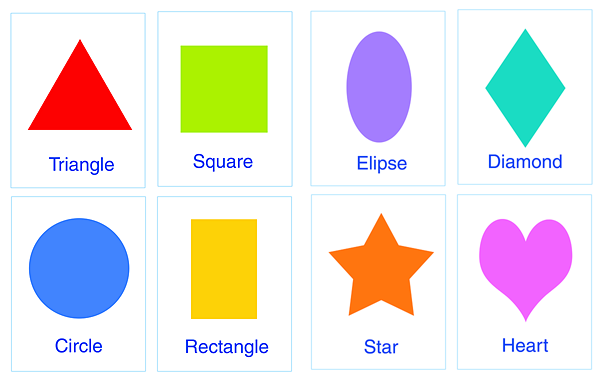
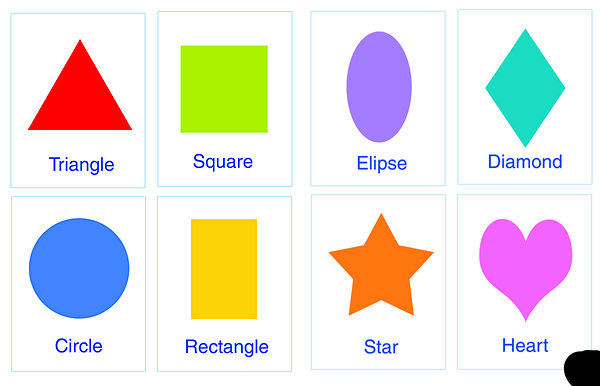
sistemato il metodo per riconoscere il colore

Changed region(s): [[0.93, 0.9016, 1.0, 1.0]]

diff --git a/BaseClass/src/FeatureExtractor.cpp b/BaseClass/src/FeatureExtractor.cpp
@@ -38,56 +38,94 @@ string FeatureExtractor::getPointColor(int x, int y){
 	//cv::Mat colorBlob = hueLevel(roi);
 	//printf("%.2f\n",normColor(colorBlob.data[colorBlob.step*2+2]));
 
-	double hue = this->normColor(hueLevel.data[hueLevel.step*y+x]);
+	double hue = this->normHue(hueLevel.data[hueLevel.step*y+x]);
+	double sat = this->normSV(hslChannels[1].data[hslChannels[1].step*y+x]);
+	double val = this->normSV(hslChannels[2].data[hslChannels[2].step*y+x]);
+
 	printf("%.2f\n",hue);
-	return this->getColorString(hue);
+	printf("%.2f\n",sat);
+	printf("%.2f\n",val);
+	return this->getColorString(hue,sat,val);
 }
 
 
-string FeatureExtractor::getRegionColor(int x, int y){
-	/*
-	 *  @TODO: pensare a come capire cosa è interno alla regione e cosa è esterno
-	 // Convert image to HSV.
-	cv::Mat hsv;
-	cv::cvtColor(image, hsv, CV_BGR2HSV);
+string FeatureExtractor::getRegionColor(cv::vector<cv::Point> points){
+	//imposto il roi nella bounding box della forma
+	cv::Rect boundingBox = boundingRect(cv::Mat(points));
+	cv::Mat boundedImg = image(boundingBox);
 
-	cv::Mat hslChannels[3];
-	cv::split(hsv, hslChannels);
+	//converto l'immagine in immagine binaria.
+	cv::Mat binary,gray;
+	cv::cvtColor(boundedImg, gray, CV_BGR2GRAY);
+	int thresholdValue = 128;
+	cv::threshold(gray, binary, thresholdValue, 255, CV_THRESH_BINARY);
+	//cv::imshow( "bin", binary );
+	//cv::waitKey(0);
 
-	cv::Mat hueLevel = hslChannels[0];
+	//converto la boundedImg in HSV
+	cv::Mat hsvRegion;
+	cv::cvtColor(boundedImg, hsvRegion, CV_BGR2HSV);
+	cv::Mat hsvChannels[3];
+	cv::split(hsvRegion, hsvChannels);
 
-	//cv::Rect roi(x-3,y-3,5,5);
-	//cv::Mat colorBlob = hueLevel(roi);
-	//printf("%.2f\n",normColor(colorBlob.data[colorBlob.step*2+2]));
+	//Uso l'immagine binaria come flag. L'oggetto è nero.
+	//Faccio la media dei valori di saturazione dei pixel
+	double totalPixel = 0;
+	double regionH = 0;
+	double regionS = 0;
+	double regionV = 0;
 
-	double hue = this->normColor(hueLevel.data[hueLevel.step*y+x]);
-	printf("%.2f\n",hue);
-	return this->getColorString(hue);
-	*/
+	for (int i=0;i<binary.rows;i++)
+		for (int j=0;j<binary.cols;j++)
+			if(binary.data[binary.step*i+j] < 10) {
+				totalPixel += 1;
+				regionH += hsvChannels[0].data[hsvChannels[0].step*i+j];
+				regionS += hsvChannels[1].data[hsvChannels[1].step*i+j];
+				regionV += hsvChannels[2].data[hsvChannels[2].step*i+j];
+			}
+	regionH /= totalPixel;
+	regionS /= totalPixel;
+	regionV /= totalPixel;
+
+	double hue = this->normHue(regionH);
+	double sat = this->normSV(regionS);
+	double val = this->normSV(regionV);
+
+	printf("%.2f\n",regionH);
+	return this->getColorString(hue,sat,val);
 }
 
 
-double FeatureExtractor::normColor(int hueVal){
+double FeatureExtractor::normHue(int hueVal){
 	return ((double)hueVal*360.0/180.0);
 }
 
+double FeatureExtractor::normSV(int svVal){
+	return ((double)svVal*100.0/255.0);
+}
 
-string FeatureExtractor::getColorString(double gimpHueValue){
-	if((gimpHueValue < 15.0) || ((gimpHueValue > 330.0) && (gimpHueValue < 360.0)))
+string FeatureExtractor::getColorString(double gimpHue, double gimpSaturation, double gimpValue){
+	if ((gimpValue >= 0) && (gimpValue <= 30))
+		return "black";
+	else if (((gimpValue >= 95) && (gimpValue <= 100)) && ((gimpSaturation>=0) && (gimpSaturation<=5)))
+		return "white";
+	else if (((gimpValue >= 30) && (gimpValue <= 60)) && ((gimpSaturation>=5) && (gimpSaturation<=15)))
+		return "gray";
+	else if ((gimpHue < 15.0) || ((gimpHue > 330.0) && (gimpHue < 360.0)))
 		return "red";
-	else if(gimpHueValue < 45.0)
+	else if(gimpHue < 45.0)
 		return "orange";
-	else if(gimpHueValue < 65.0)
+	else if(gimpHue < 65.0)
 		return "yellow";
-	else if(gimpHueValue < 140.0)
+	else if(gimpHue < 140.0)
 		return "green";
-	else if(gimpHueValue < 210.0)
+	else if(gimpHue < 210.0)
 		return "cyan";
-	else if(gimpHueValue < 250.0)
+	else if(gimpHue < 250.0)
 		return "blue";
-	else if(gimpHueValue < 280.0)
+	else if(gimpHue < 280.0)
 		return "violet";
-	else if(gimpHueValue < 330.0)
+	else if(gimpHue < 330.0)
 		return "pink";
 	else return "unknown";
 }
@@ -364,12 +402,20 @@ void FeatureExtractor::recognizeTriangles(){
 void FeatureExtractor::getExtractedFeature(){
 	//this->recognizeCircles();
 
+
 	cout<<"color: "+this->getPointColor(100, 100)+"\n";   //rosso
 	cout<<"color: "+this->getPointColor(200, 100)+"\n";		//verde
 	cout<<"color: "+this->getPointColor(100, 250)+"\n";		//blue
 	cout<<"color: "+this->getPointColor(240, 240)+"\n";		//giallo
+	cout<<"color: "+this->getPointColor(118, 42)+"\n";		//bianco
+	cout<<"color: "+this->getPointColor(580,367)+"\n";		//nero
 
 	//init(0);
+	cv::vector<cv::Point> p1;
+	p1.push_back(cv::Point(77,42));
+	p1.push_back(cv::Point(29,127));
+	p1.push_back(cv::Point(127,130));
+	cout<<"color: "+this->getRegionColor(p1)+"\n";	//rosso
 
 	//this->recognizeTriangles();
 	//this->recognizeSquares();

diff --git a/BaseClass/src/FeatureExtractor.h b/BaseClass/src/FeatureExtractor.h
@@ -31,9 +31,10 @@ private:
 	void recognizeCircles();
 	void recognizeSquares();
 	void recognizeTriangles();
-	double normColor(int hueVal);
-	string getColorString(double gimpHueValue);
-	string getRegionColor();
+	double normHue(int hueVal);
+	double normSV(int svVal);
+	string getColorString(double gimpHue, double gimpSaturation, double gimpValue);
+	string getRegionColor(cv::vector<cv::Point> points);
 	cv::Mat image;
 
 };
